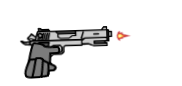
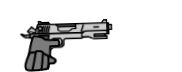
Modified pistol sprite

Changed region(s): [[0.1099, 0.25, 0.7143, 1.0], [0.4945, 0.5, 0.6044, 0.5556], [0.1923, 0.5, 0.2198, 0.5278]]

diff --git a/pruebaSFML/src/game/screens/gameplay.cpp b/pruebaSFML/src/game/screens/gameplay.cpp
@@ -448,7 +448,7 @@ namespace newgame
 			gun.setFillColor(sf::Color::White);
 			gun.setSize({ 140,90 });
 			gun.setTexture(&playerHands);
-			pistolAnimation.SetAnimationY(&playerHands, sf::Vector2u(1, 9), 0.055f);
+			pistolAnimation.SetAnimation(&playerHands, sf::Vector2u(9, 1), 0.055f);
 
 			// Enemy 1
 
@@ -1737,7 +1737,7 @@ namespace newgame
 				switch (currentWeapon)
 				{
 				case 0:
-					pistolAnimation.UpdateY(pistolShoot, deltaTime);
+					pistolAnimation.Update(pistolShoot, deltaTime);
 					break;
 				case 1:
 					shotgunAnimation.Update(0, deltaTime);
